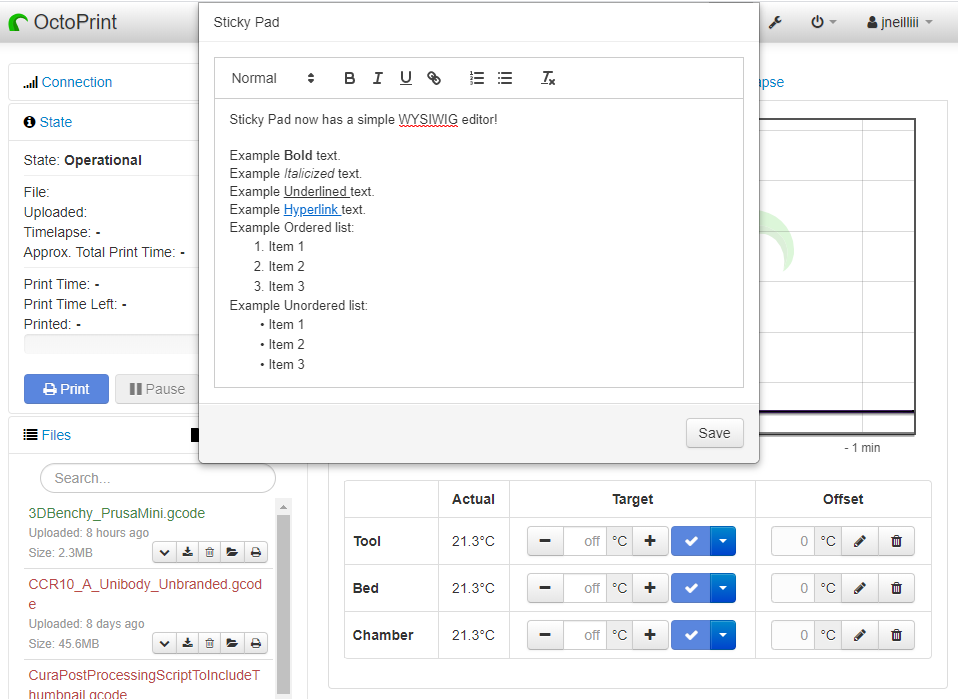
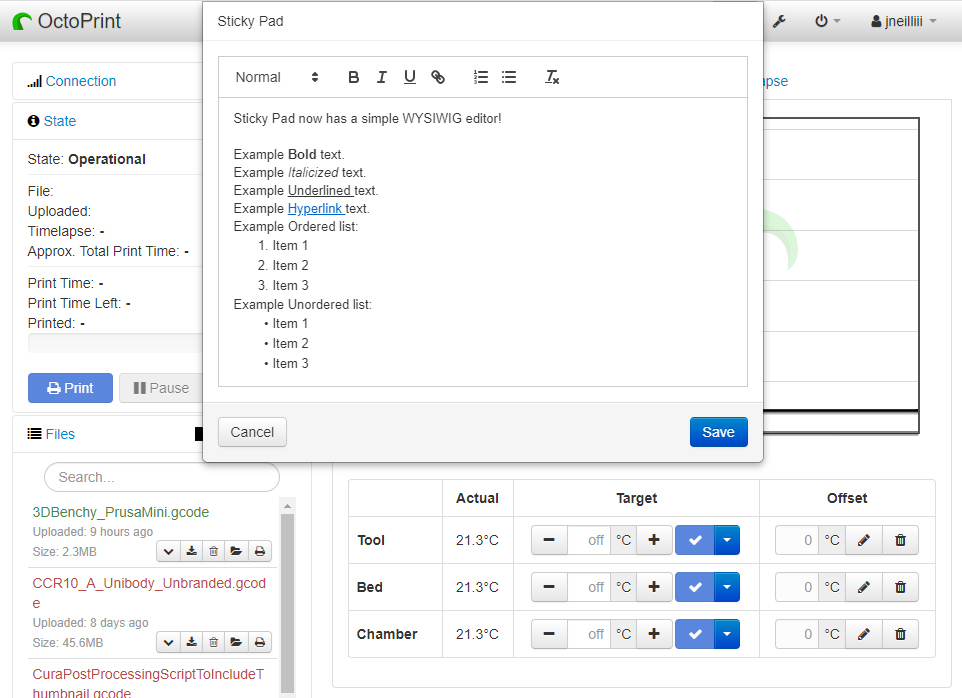
0.1.3
Switched to WYSIWIG editor, resolves #3, resolves #6
Changed to navbar button with slide out panel, resolves #4, resolves #5

diff --git a/octoprint_stickypad/static/js/stickypad.js b/octoprint_stickypad/static/js/stickypad.js
@@ -11,9 +11,11 @@ $(function() {
 		self.settingsViewModel = parameters[0];
 		self.loginStateViewModel = parameters[1];
 		self.note = ko.observable();
+		self.saving = ko.observable(false);
 
 		self.onBeforeBinding = function(){
 			self.note(self.settingsViewModel.settings.plugins.stickypad.note);
+			self.quill = new Quill('#editor-container', {theme: 'snow'});
 		}
 
 		self.showEditor = function(data){
@@ -21,32 +23,22 @@ $(function() {
 			$('#stickypadbuttonpanel').slideDown('slow');
 		}
 
-		self.saveNote = function(data){
-			OctoPrint.settings.savePluginSettings('stickypad', {'note': self.quill.getContents()});
+		self.closeEditor = function(data) {
+			self.quill.setContents(ko.toJS(self.note()));
 			$('#stickypadbuttonpanel').slideUp('slow', function(){$('#navbar_plugin_stickypad').removeClass('open');});
 		}
 
-<<<<<<< HEAD
-		self.onStartupComplete = function(){
-			self.quill = new Quill('#editor-container', {theme: 'snow'});
-			self.quill.setContents(ko.toJS(self.note()));
-=======
-						]
-				},
-				buttons: {
-					closer: false,
-					sticker: false
-				},
-				history: {
-					history: false
-				}
+		self.saveNote = function(data){
+			self.saving(true);
+			OctoPrint.settings.savePluginSettings('stickypad', {'note': self.quill.getContents()}).done(function(){
+					$('#stickypadbuttonpanel').slideUp('slow', function(){$('#navbar_plugin_stickypad').removeClass('open');
+					self.saving(false);
+				});
 			});
 		}
-		
-		self.onStartupComplete = function(){
-			$('div.ui-pnotify.stickypad > div > div.ui-pnotify-text').height(function(){return parseInt($(this).parent().height() - 40) + 'px'});
-			$('div.ui-pnotify.stickypad > div > div.ui-pnotify-text').width(function(){return parseInt($(this).parent().width()) + 'px'});
->>>>>>> cd55226c32c87eb2336cbb67cf2cfe70d4500ebb
+
+		self.onAllBound = function(){
+			self.quill.setContents(ko.toJS(self.note()));
 		}
 	}
 

diff --git a/setup.py b/setup.py
@@ -14,11 +14,7 @@ plugin_package = "octoprint_stickypad"
 plugin_name = "Sticky Pad"
 
 # The plugin's version. Can be overwritten within OctoPrint's internal data via __plugin_version__ in the plugin module
-<<<<<<< HEAD
 plugin_version = "0.1.3"
-=======
-plugin_version = "0.1.2"
->>>>>>> cd55226c32c87eb2336cbb67cf2cfe70d4500ebb
 
 # The plugin's description. Can be overwritten within OctoPrint's internal data via __plugin_description__ in the plugin
 # module

diff --git a/octoprint_stickypad/__init__.py b/octoprint_stickypad/__init__.py
@@ -26,8 +26,7 @@ class StickypadPlugin(octoprint.plugin.SettingsPlugin,
 	def get_template_configs(self):
 		return [
 			dict(type="general", custom_bindings=True),
-			dict(type="navbar", custom_bindings=True, classes=["dropdown"]),
-			dict(type="settings", custom_bindings=False)
+			dict(type="navbar", custom_bindings=True, classes=["dropdown"])
 		]
 
 	##~~ Softwareupdate hook
